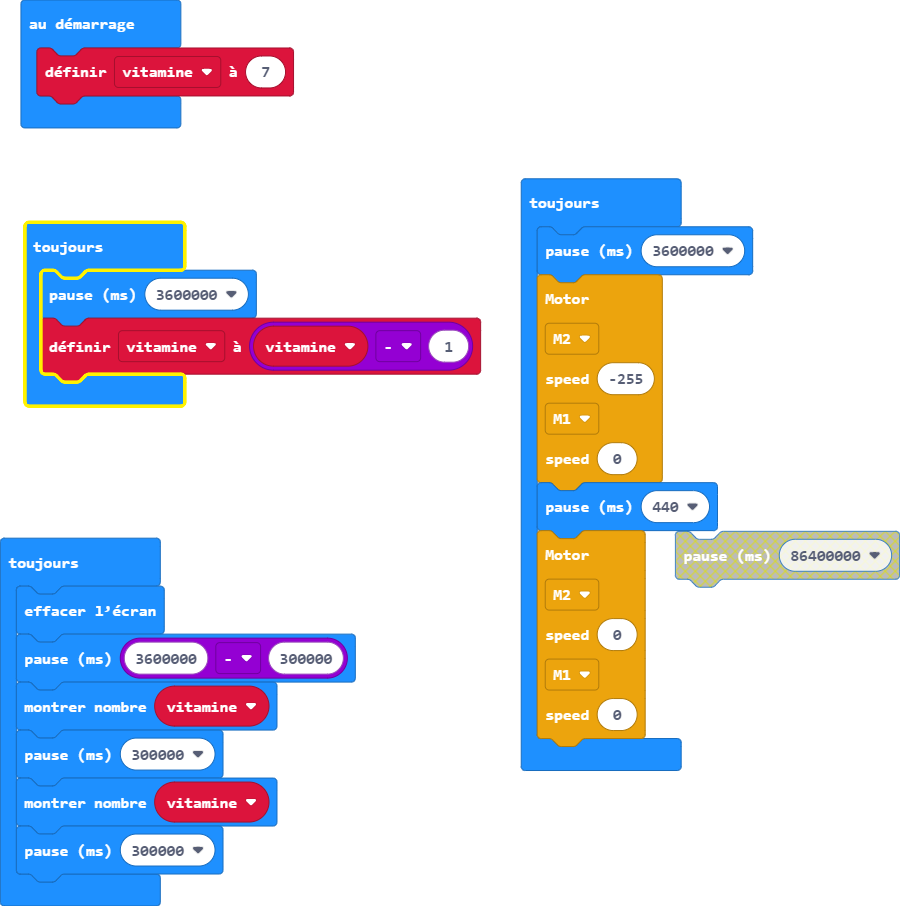
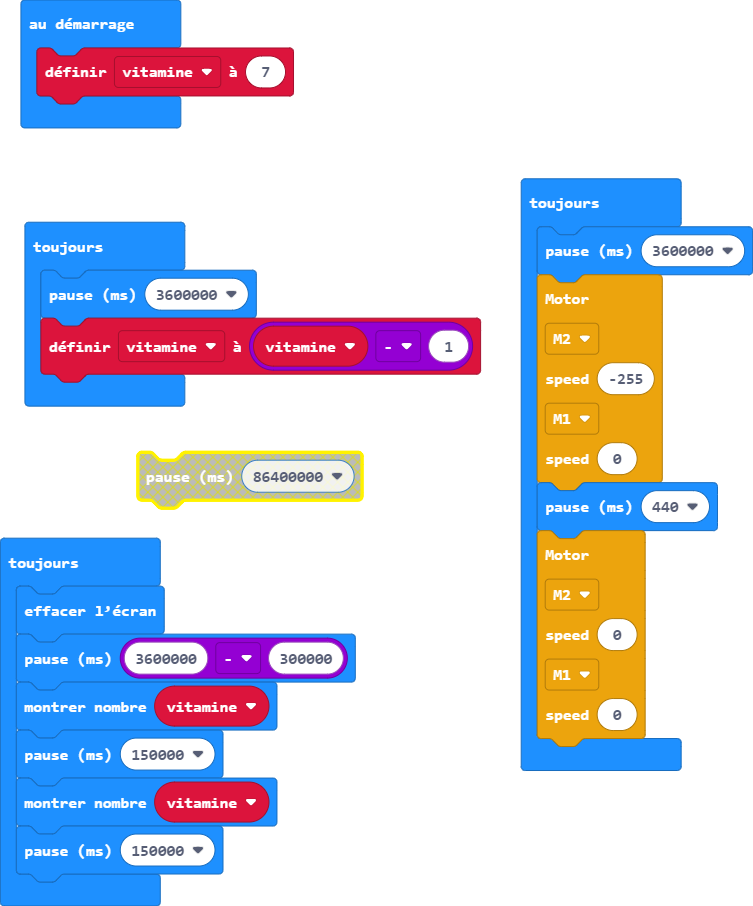
Mise à jour main.blocks, main.ts

diff --git a/main.ts b/main.ts
@@ -23,7 +23,7 @@ basic.forever(function () {
     basic.clearScreen()
     basic.pause(3600000 - 300000)
     basic.showNumber(vitamine)
-    basic.pause(300000)
+    basic.pause(150000)
     basic.showNumber(vitamine)
-    basic.pause(300000)
+    basic.pause(150000)
 })
